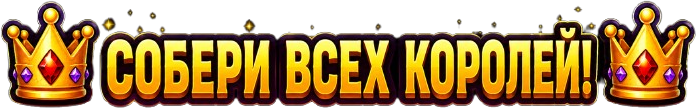
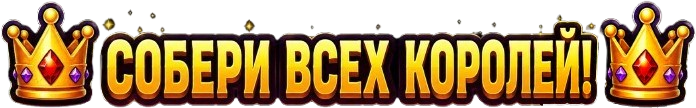
Fix

diff --git a/js/socionics/relations.js b/js/socionics/relations.js
@@ -25,7 +25,14 @@ const TIM = [
 export function getRelation(type1, type2) {
   const i = TYPES.indexOf(type1);
   const j = TYPES.indexOf(type2);
-  if (i === -1 || j === -1) return "деловые";
+  if (i === -1) {
+    console.error("Unknown type: " + type1);
+    return "деловые";
+  }
+  if (j === -1) {
+    console.error("Unknown type: " + type2);
+    return "деловые";
+  }
 
   const a = TIM[i];
   const b = TIM[j];
@@ -93,30 +100,30 @@ export const SHORT = {
   "подревизный": "ПР"
 };
 
-// --- self-test: строка «Дон» против канонической таблицы 16x16 ---
+// --- self-test: строка «Дон Кихот» против канонической таблицы 16x16 ---
 (function selfTest() {
   const expectedDon = {
-    "Дон": "тождество",
+    "Дон Кихот": "тождество",
     "Дюма": "дуальность",
     "Гюго": "активация",
-    "Роб": "зеркальность",
+    "Робеспьер": "зеркальность",
     "Гамлет": "заказчик",
-    "Макс": "ревизор",
-    "Жук": "деловые",
-    "Есь": "мираж",
-    "Нап": "суперэго",
-    "Баль": "полная противоположность",
+    "Максим": "ревизор",
+    "Жуков": "деловые",
+    "Есенин": "мираж",
+    "Наполеон": "суперэго",
+    "Бальзак": "полная противоположность",
     "Джек": "квазитождество",
-    "Драй": "конфликт",
-    "Штир": "подзаказной",
-    "Дост": "подревизный",
-    "Гек": "родственные",
-    "Габ": "полудуальность"
+    "Драйзер": "конфликт",
+    "Штирлиц": "подзаказной",
+    "Достоевский": "подревизный",
+    "Гексли": "родственные",
+    "Габен": "полудуальность"
   };
   for (const t of TYPES) {
-    const got = getRelation("Дон", t);
+    const got = getRelation("Дон Кихот", t);
     if (got !== expectedDon[t]) {
-      console.error(`relations self-test FAIL: Дон->${t} = ${got}, ожидалось ${expectedDon[t]}`);
+      console.error(`relations self-test FAIL: Дон Кихот->${t} = ${got}, ожидалось ${expectedDon[t]}`);
     }
   }
 })();

diff --git a/index.html b/index.html
@@ -32,6 +32,6 @@
 
 <p><strong>По заказу:</strong> Ярослав Полозов</p>
 </footer>
-  <script type="module" src="js/app.js"></script>
+  <script type="module" src="js/app.js?v=1.0.1"></script>
 </body>
 </html>